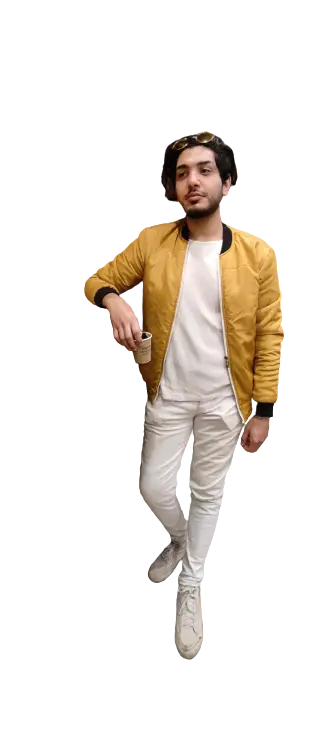
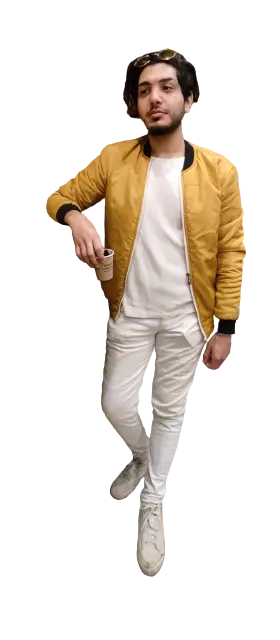
mobile stats report
- fixed image ratio on mobile viewport

Changed region(s): [[0.1429, 0.0625, 0.8857, 0.9062]]

diff --git a/index.html b/index.html
@@ -1,4 +1,4 @@
-<!DOCTYPE html><html lang="en"><head><meta charset="UTF-8"><meta http-equiv="X-UA-Compatible" content="IE=edge"><meta name="viewport" content="width=device-width, initial-scale=1.0"><meta name="description" content="Muhammed Fayad's portfolio is The website is Basically online portfolio WebPage for shocasing my previous work and background. It's a reliable, fast, robust easy to use that litespeed it makes fast site."><meta name="keywords" content="Muhammed Fayad's portfolio, portfolio, website, page, landing, template, JavaScript"><meta name="author" content="Muhammed Fayad"><meta name="publisher" content="Muhammed Fayad"><meta name="copyright" content="Fayy"><meta name="page-topic" content="Profile"><meta name="page-type" content="Portfolio, Laning Page"><meta name="audience" content="Tech recruiters, Programmers, Web Designers"><meta name="robots" content="index, follow"><meta property="og:locale" content="en_US"><meta property="og:type" content="website"><meta property="og:title" content="Muhammed Fayad | Computer Engineer"><meta property="og:description" content="Muhammed Fayad's portfolio is The website is Basically online portfolio WebPage for shocasing my previous work and background. It's a reliable, fast, robust easy to use that litespeed it makes fast site."><meta property="og:url" content="https://nyctophilus.github.io/Portfolio"><meta property="og:Muhammed Fayad's portfolio" content="Muhammed Fayad's portfolio: Online Portfolio WebPage Of Muhammed Fayad"><meta name="twitter:card" content="summary_large_image"><meta name="twitter:title" content="Muhammed Fayad's portfolio Is a Online Portfolio WebPage | MuhammedFayad"><meta name="twitter:description" content="Muhammed Fayad's portfolio is The website is Basically online portfolio WebPage for shocasing my previous work and background. It's a reliable, fast, robust easy to use that litespeed it makes fast site."><meta name="twitter:image" content="https://raw.githubusercontent.com/Nyctophilus/Portfolio/master/preview.webp"><meta name="theme-color" content="#fd9f2c"><title>Muhammed Fayad | Computer Engineer</title><link rel="stylesheet" href="css/main.css"></head><body><loading id="loading-state"><p><span>l</span><span>o</span><span>a</span><span>d</span><span>i</span><span>n</span><span>g</span></p><div class="loader"> <div class="inner one"></div><div class="inner two"></div><div class="inner three"> </div></div></loading><div class="light-toggler control" id="light-toggler"><i class="icon icon-light"></i></div><main> <section class="home" id="home" data-icon="home"><div class="smileys"> </div><div class="container content"><img class="me1 img-res img-rounded" src="assets/images/MoFay1.webp" alt="Picture of MuhammedYosry" width="335" height="745"><div class="text-content"><h1>Hola, I'm <span>Muhammed Fayad</span><br><small data-text="Front-end Web Developer">Front-end Web Developer</small></h1><p>I'm Computer Engineering graduate specializing in Web Development. I fond of creating beautiful fluid eye-pleasing websites. I'm a highly self-motivated <span>Agilest</span> developer, Looking forward to be <span>MERN</span> Stack developer.</p><button><a href="https://drive.google.com/file/d/1qOTIgfngShy871zCLJkxnkTqJFoVcnmw/view?usp=sharing" target="_blank"><p>Download CV</p><i class="icon icon-download"> </i></a></button></div></div><div class="smileys parti hidden-lg"><label class="smile">
+<!DOCTYPE html><html lang="en"><head><meta charset="UTF-8"><meta http-equiv="X-UA-Compatible" content="IE=edge"><meta name="viewport" content="width=device-width, initial-scale=1.0"><meta name="description" content="Muhammed Fayad's portfolio is The website is Basically online portfolio WebPage for shocasing my previous work and background. It's a reliable, fast, robust easy to use that litespeed it makes fast site."><meta name="keywords" content="Muhammed Fayad's portfolio, portfolio, website, page, landing, template, JavaScript"><meta name="author" content="Muhammed Fayad"><meta name="publisher" content="Muhammed Fayad"><meta name="copyright" content="Fayy"><meta name="page-topic" content="Profile"><meta name="page-type" content="Portfolio, Laning Page"><meta name="audience" content="Tech recruiters, Programmers, Web Designers"><meta name="robots" content="index, follow"><meta property="og:locale" content="en_US"><meta property="og:type" content="website"><meta property="og:title" content="Muhammed Fayad | Computer Engineer"><meta property="og:description" content="Muhammed Fayad's portfolio is The website is Basically online portfolio WebPage for shocasing my previous work and background. It's a reliable, fast, robust easy to use that litespeed it makes fast site."><meta property="og:url" content="https://nyctophilus.github.io/Portfolio"><meta property="og:Muhammed Fayad's portfolio" content="Muhammed Fayad's portfolio: Online Portfolio WebPage Of Muhammed Fayad"><meta name="twitter:card" content="summary_large_image"><meta name="twitter:title" content="Muhammed Fayad's portfolio Is a Online Portfolio WebPage | MuhammedFayad"><meta name="twitter:description" content="Muhammed Fayad's portfolio is The website is Basically online portfolio WebPage for shocasing my previous work and background. It's a reliable, fast, robust easy to use that litespeed it makes fast site."><meta name="twitter:image" content="https://raw.githubusercontent.com/Nyctophilus/Portfolio/master/preview.webp"><meta name="theme-color" content="#fd9f2c"><title>Muhammed Fayad | Computer Engineer</title><link rel="stylesheet" href="css/main.css"></head><body><loading id="loading-state"><p><span>l</span><span>o</span><span>a</span><span>d</span><span>i</span><span>n</span><span>g</span></p><div class="loader"> <div class="inner one"></div><div class="inner two"></div><div class="inner three"> </div></div></loading><div class="light-toggler control" id="light-toggler"><i class="icon icon-light"></i></div><main> <section class="home" id="home" data-icon="home"><div class="smileys"> </div><div class="container content"><img class="me1 img-res img-rounded" src="assets/images/MoFay1.webp" alt="Picture of MuhammedYosry" width="280" height="640"><div class="text-content"><h1>Hola, I'm <span>Muhammed Fayad</span><br><small data-text="Front-end Web Developer">Front-end Web Developer</small></h1><p>I'm Computer Engineering graduate specializing in Web Development. I fond of creating beautiful fluid eye-pleasing websites. I'm a highly self-motivated <span>Agilest</span> developer, Looking forward to be <span>MERN</span> Stack developer.</p><button><a href="https://drive.google.com/file/d/1qOTIgfngShy871zCLJkxnkTqJFoVcnmw/view?usp=sharing" target="_blank"><p>Download CV</p><i class="icon icon-download"> </i></a></button></div></div><div class="smileys parti hidden-lg"><label class="smile">
 <input type="radio" aria-label="smile shape eyes"/>
 <div class="face"></div>
 </label><label class="smile">
